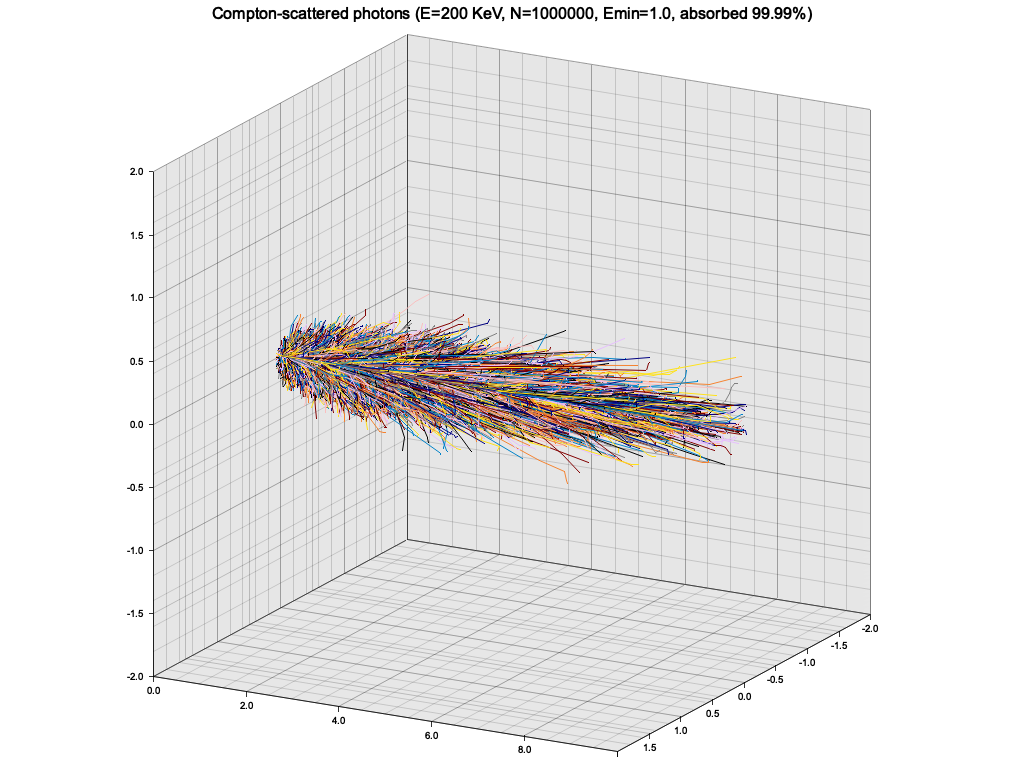
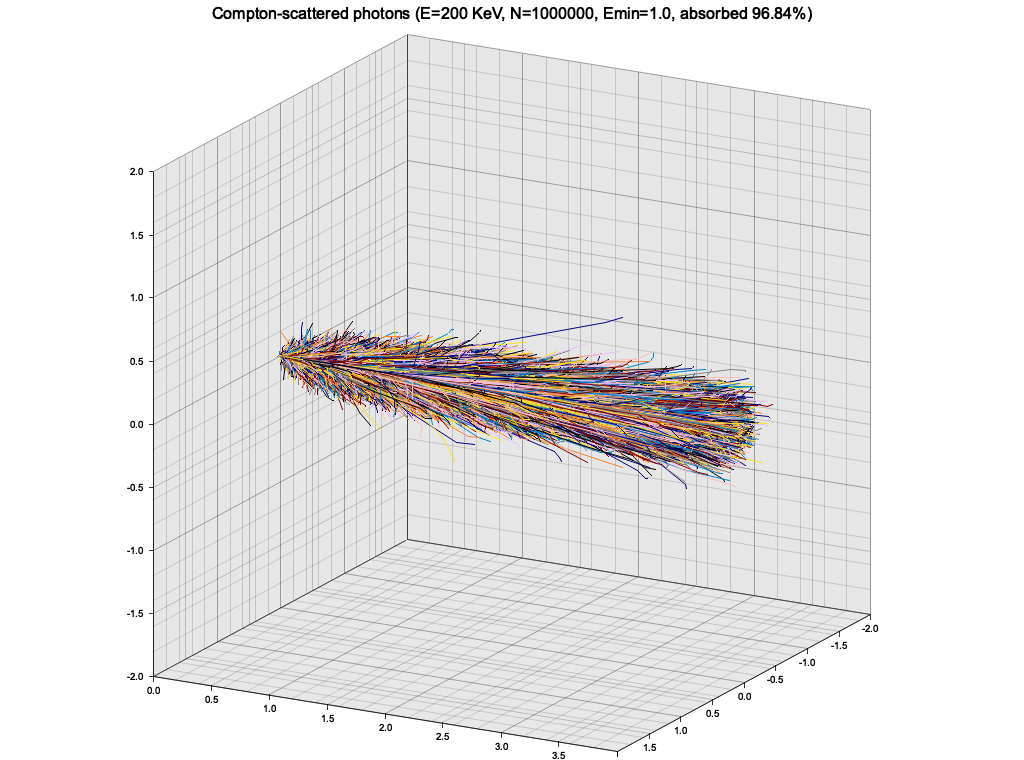
compton recalculated

diff --git a/src/compton_mc.rs b/src/compton_mc.rs
@@ -155,18 +155,18 @@ fn compton_mc_step(
     StepResult::Continue
 }
 
-pub fn run_compton_mc() {
+pub fn main() {
     // no absorption = photons do a long random walk before going out
-    _run_compton_mc(100, 500.0, 0.0);
+    run_compton_mc(100, 500.0, 0.0);
     // more or less realistic
-    _run_compton_mc(1_000_000, 200.0, 1.0);
-    _run_compton_mc(1_000_000, 800.0, 1.0);
-    _run_compton_mc(1_000_000, 3200.0, 1.0);
-    _run_compton_mc(1_000_000, 6400.0, 1.0);
-    _run_compton_mc(1_000_000, 12800.0, 1.0);
+    run_compton_mc(1_000_000, 200.0, 1.0);
+    run_compton_mc(1_000_000, 800.0, 1.0);
+    run_compton_mc(1_000_000, 3200.0, 1.0);
+    run_compton_mc(1_000_000, 6400.0, 1.0);
+    run_compton_mc(1_000_000, 12800.0, 1.0);
 }
 
-fn _run_compton_mc(total_photons: usize, initial_energy: f32, min_energy: f32) {
+fn run_compton_mc(total_photons: usize, initial_energy: f32, min_energy: f32) {
     let material = Material {
         geometry: Cuboid {
             min: Vector3 {
@@ -175,7 +175,7 @@ fn _run_compton_mc(total_photons: usize, initial_energy: f32, min_energy: f32) {
                 z: -2.0,
             },
             max: Vector3 {
-                x: 10.0,
+                x: 4.0,
                 y: 2.0,
                 z: 2.0,
             },
@@ -291,11 +291,7 @@ fn _run_compton_mc(total_photons: usize, initial_energy: f32, min_energy: f32) {
             ))
             .unwrap()
             .clone() as f32;
-        let pixel_intensity = if pixel_count == 0.0 {
-            pixel_count
-        } else {
-            pixel_count.ln() / max_bin_count.ln()
-        };
+        let pixel_intensity = (1.0 + pixel_count).ln() / (1.0 + max_bin_count).ln();
         let pixel_value = (255.0 * pixel_intensity) as u32;
         img.set_pixel(y_px, z_px, px!(pixel_value, pixel_value, pixel_value));
     }

diff --git a/src/main.rs b/src/main.rs
@@ -32,7 +32,7 @@ fn main() {
         "6" => ex6::ex6(),
         "7" => ex7::ex7(),
         "8" => ex8::ex8(),
-        "compton" => compton_mc::run_compton_mc(),
+        "compton" => compton_mc::main(),
         _ => {
             println!("Exercise {:?} not found", args.exercise);
         }
